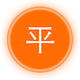
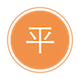
ppj continue

diff --git a/public/futures/css/pages.css b/public/futures/css/pages.css
@@ -128,12 +128,18 @@
     */
     background-image: url('../images/p1.png');
 }
+.opt-btns .circle-btn.p3{
+    background-image: url('../images/p3.png');
+}
 .opt-btns .circle-btn.d{
     /*
     background: #34cc67;
     font-size: 28px;
     */
     background-image: url('../images/d1.png');
+}
+.opt-btns .circle-btn.d3{
+    background-image: url('../images/d3.png');
 }
 .opt-btns .circle-btn.pd{
     background: #34cc67;
@@ -144,6 +150,9 @@
     font-size: 28px;
     */
     background-image: url('../images/z1.png');
+}
+.opt-btns .circle-btn.z3{
+    background-image: url('../images/z3.png');
 }
 .opt-btns .circle-btn.pz{
     background: #ff414b;
